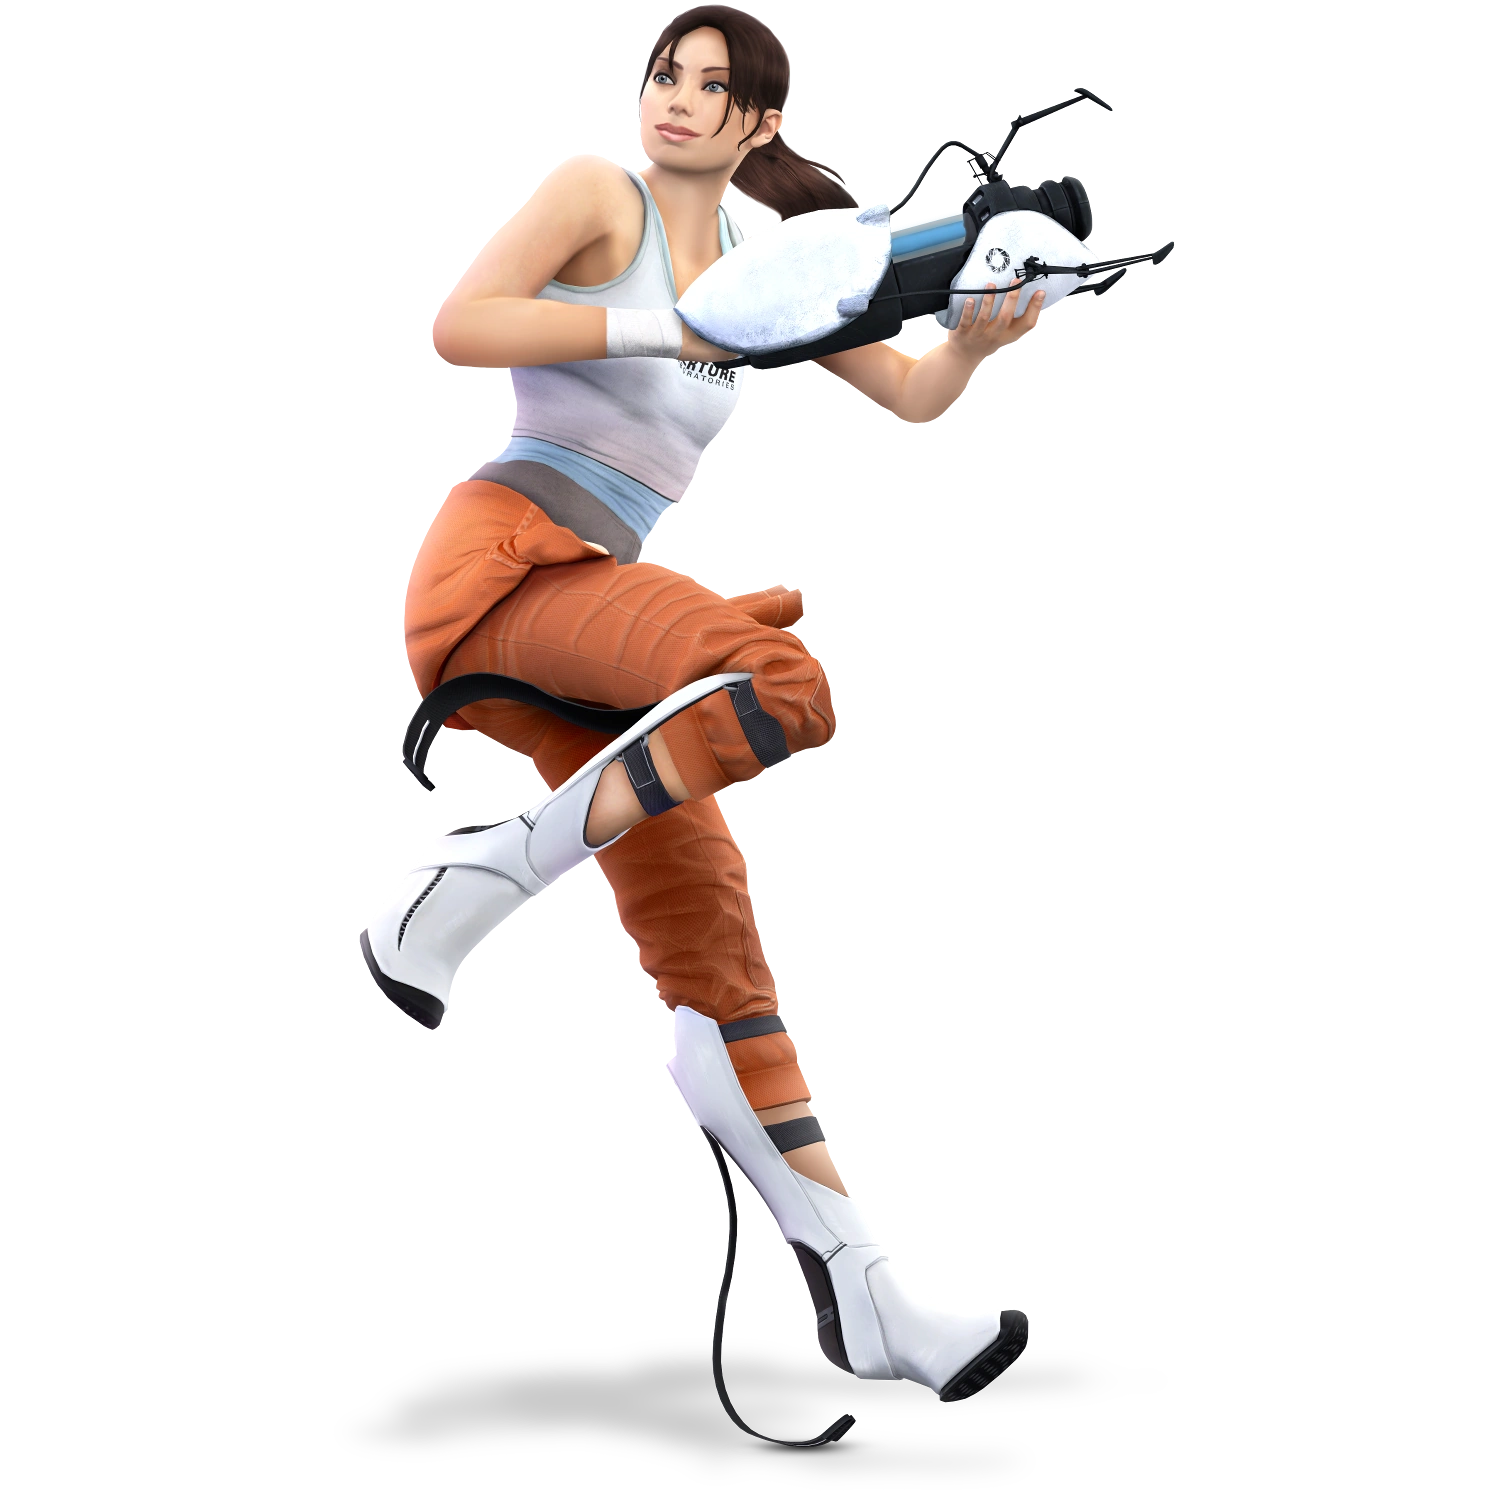
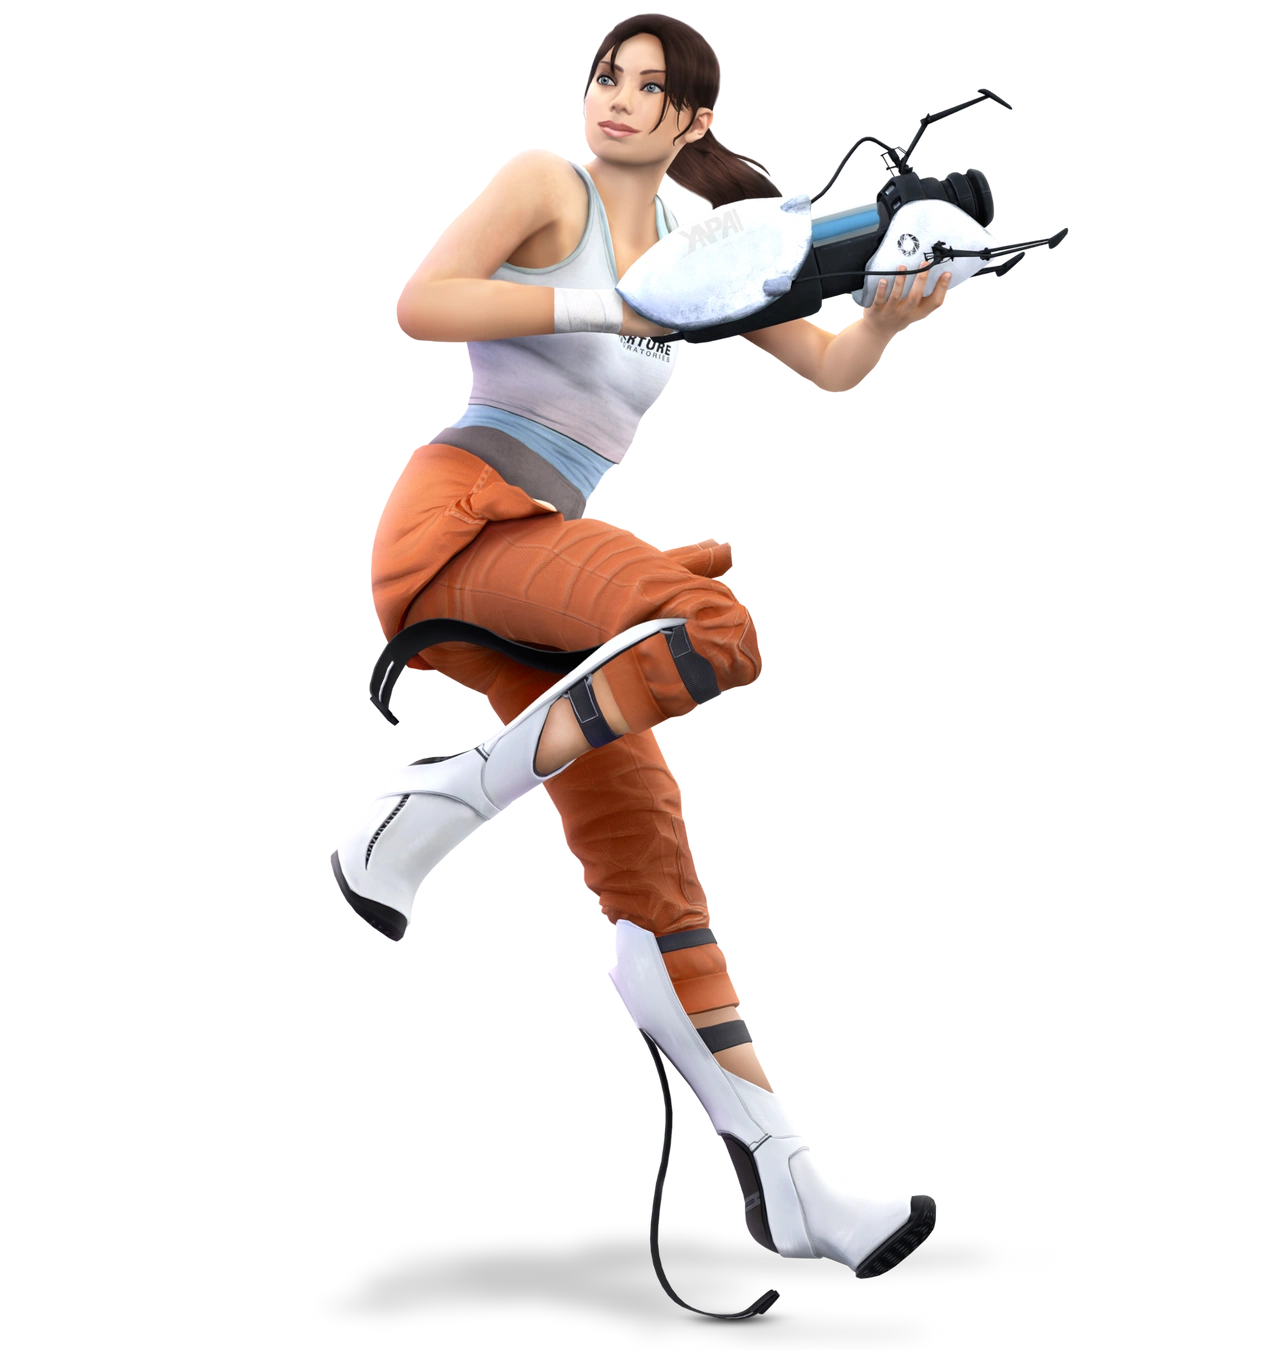
- Fiexd layout with chell. - Added animations. - Increased adaptive margin size. - Other

Changed region(s): [[0.2188, 0.0, 0.8438, 0.9956]]

diff --git a/stylesheet.css b/stylesheet.css
@@ -106,11 +106,13 @@ button:hover {
     top: 50px;
     left: 50%;
     transform: translateX(-50%);
+
 }
 #portalgun-image {
     display: block;
     max-width: 50%;
     margin: 20px auto;
+    animation: floating 2s infinite ease-in-out;
 }
 #logostrip {
     display: block;
@@ -126,44 +128,39 @@ button:hover {
     position: relative;
     justify-content: center;
     align-items: center;
-    max-width: 300px;
-    left: 50%;
-    transform: translateX(-50%);
-    top: 400px;
-}
-
-#background-blackbox {
-    display: flex;
-    position: relative;
-    background-color: black;
-    max-width: 1200px;
-    height: 700px;
-    z-index: -2;
+    max-height: 600px;
     margin: 0px auto;
-    top: 300px;
-    border-top-left-radius: 15px;
-    border-top-right-radius: 15px;
-    mask-image: linear-gradient(to bottom, black 50%, transparent 100%);
-    align-items: center;
+    margin-bottom: -250px;
+    z-index: -2;
+    mask-image: linear-gradient(to bottom, black 40%, transparent 100%);
 }
 #background-cubes {
     display: flex;
-    justify-content: center;
-    position: absolute;
-    bottom: 0;
+    position: relative;
     width: 100%;
-    height: auto;
-    max-height: 80%;
+    max-width: 1400px;
+    mask-image: linear-gradient(to bottom, black 50%, transparent 100%);
     margin: 0 auto;
     z-index: -1;
-    mask-image: linear-gradient(to bottom, black 100%, transparent 60%);
-    object-fit: contain;
 }
+#black-background {
+    display: block;
+    position: absolute;
+    width: 100%;
+    height: 1100px;
+    background-color: black;
+    mask-image: linear-gradient(to top, black 80%, transparent 100%); 
+                /*! linear-gradient(to bottom, black 80%, transparent 100%); DOES NOT WORK */
+    z-index: -3;
+    margin: 0 auto;
+}
+
 #firstblock {
     position: flex;
     position: relative;
     background-color: rgba(0, 0, 0, 1);  
     color:white;
+    margin-top: -540px;
 }
 #documentary-thumbnail {
     display: flex;
@@ -194,6 +191,7 @@ button:hover {
 #steamdeck-image {
     max-width: 500px;
     margin: 20px auto;
+    animation: sway 1.5s infinite ease-in-out;
 }
 /* Animation for enlarging elements on hover */
 .enlarge-on-hover {
@@ -203,8 +201,32 @@ button:hover {
     transform: scale(1.1);
     transition: transform 0.3s ease;
 }
+/* Animation for swaying effect */
+@keyframes sway {
+    0% {
+        transform: rotate(-2deg);
+    }
+    50% {
+        transform: rotate(2deg);
+    }
+    100% {
+        transform: rotate(-2deg);
+    }
+}
+/* Animation for floating effect */
+@keyframes floating {
+    0% {
+        transform: translateY(0px);
+    }
+    50% {
+        transform: translateY(10px);
+    }
+    100% {
+        transform: translateY(0px);
+    }
+}
 /* Responsive layout for small screens */
-@media (max-width: 700px) {
+@media (max-width: 900px) {
     .container {
         width: 95%;
         padding: 0.5rem;
@@ -223,17 +245,19 @@ button:hover {
         top: 40px;
     }
     #Chell-splash {
+        max-width: 100%;
         width: 500px;
     }
-    #background-blackbox {
-        mask-image: linear-gradient(to top, black 90%, transparent 100%);
-        top: -200px;
-        height: 600px;
-        margin: 0px auto -200px auto;
+    #background-cubes {
+        max-width: 100%;
+        top:-30px;
+    }
+    #black-background {
+        height: 800px;
     }
     #firstblock {
         border-radius: 0px;
-        margin-top: 0px;
+        margin-top: -200px;
         mask-image: linear-gradient(to bottom, black 95%, transparent 100%);
     }
     .container {

diff --git a/index.html b/index.html
@@ -35,13 +35,14 @@
                 <button class="enlarge-on-hover" id="GET IT NOW ON STEAM!">GET IT NOW ON STEAM!</button>
             </a>
         </div></b>
+        <br>
+        <br>
+        <br>
         
-        <div id="background-box-and-box-with-chell">
-            <img id="Chell-splash" src="Images\Chell-running.png">
-            <div id="background-blackbox">
-                <img src="Images\background-cubes.png" id="background-cubes"> 
-            </div>
-        </div>
+        <div id="black-background"> </div>
+        <img id="Chell-splash" src="Images\Chell-smash.webp">
+        <img src="Images\background-cubes.png" id="background-cubes"> 
+
         
             <!-- THE PART WITH THE DOCUMENTARY -->
             <div class="container" id="firstblock">
